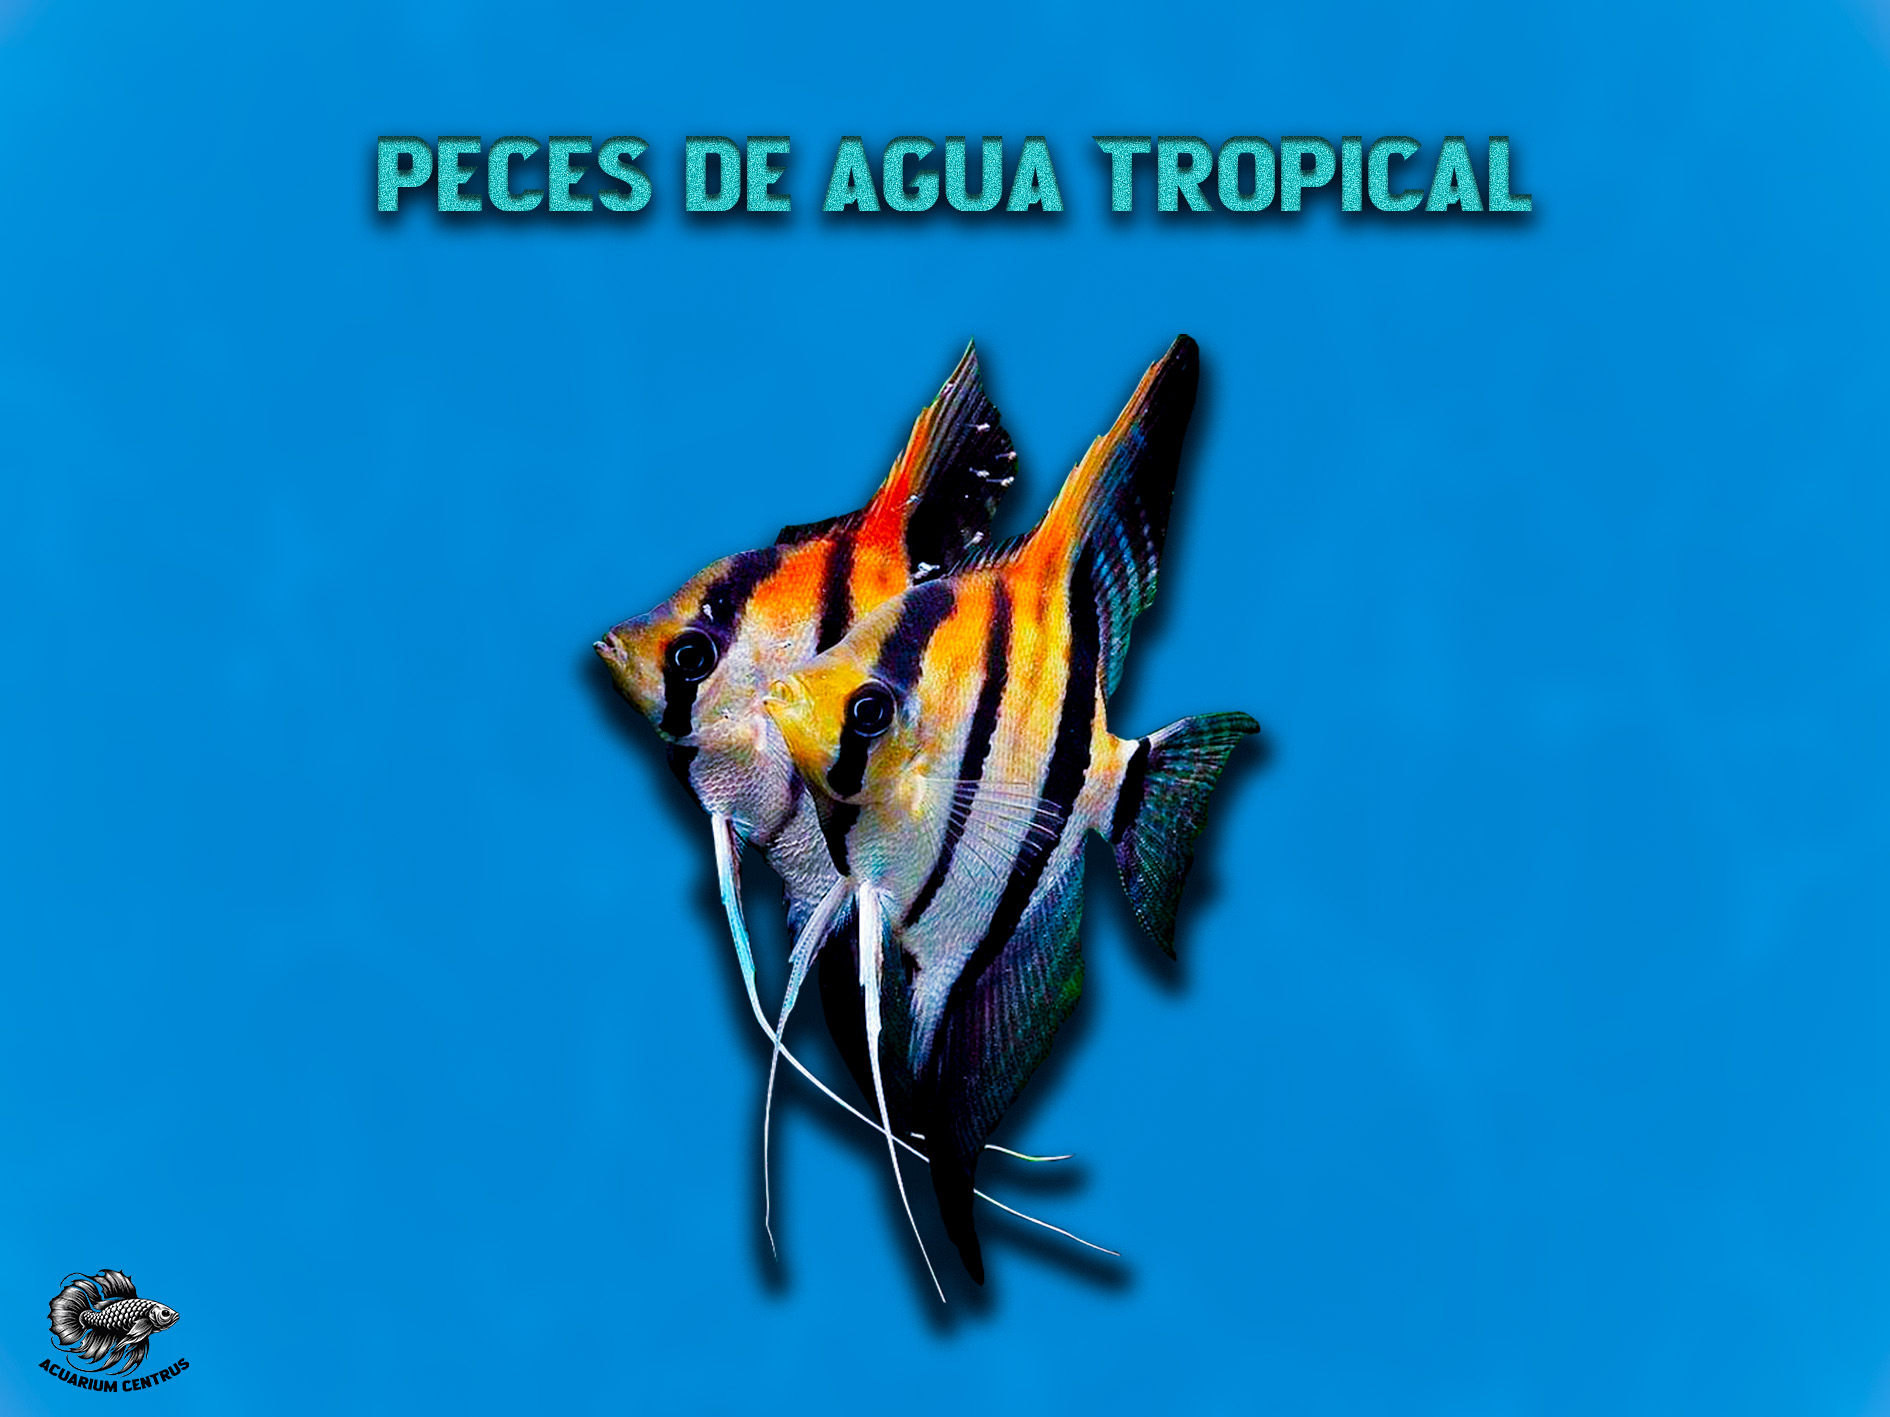
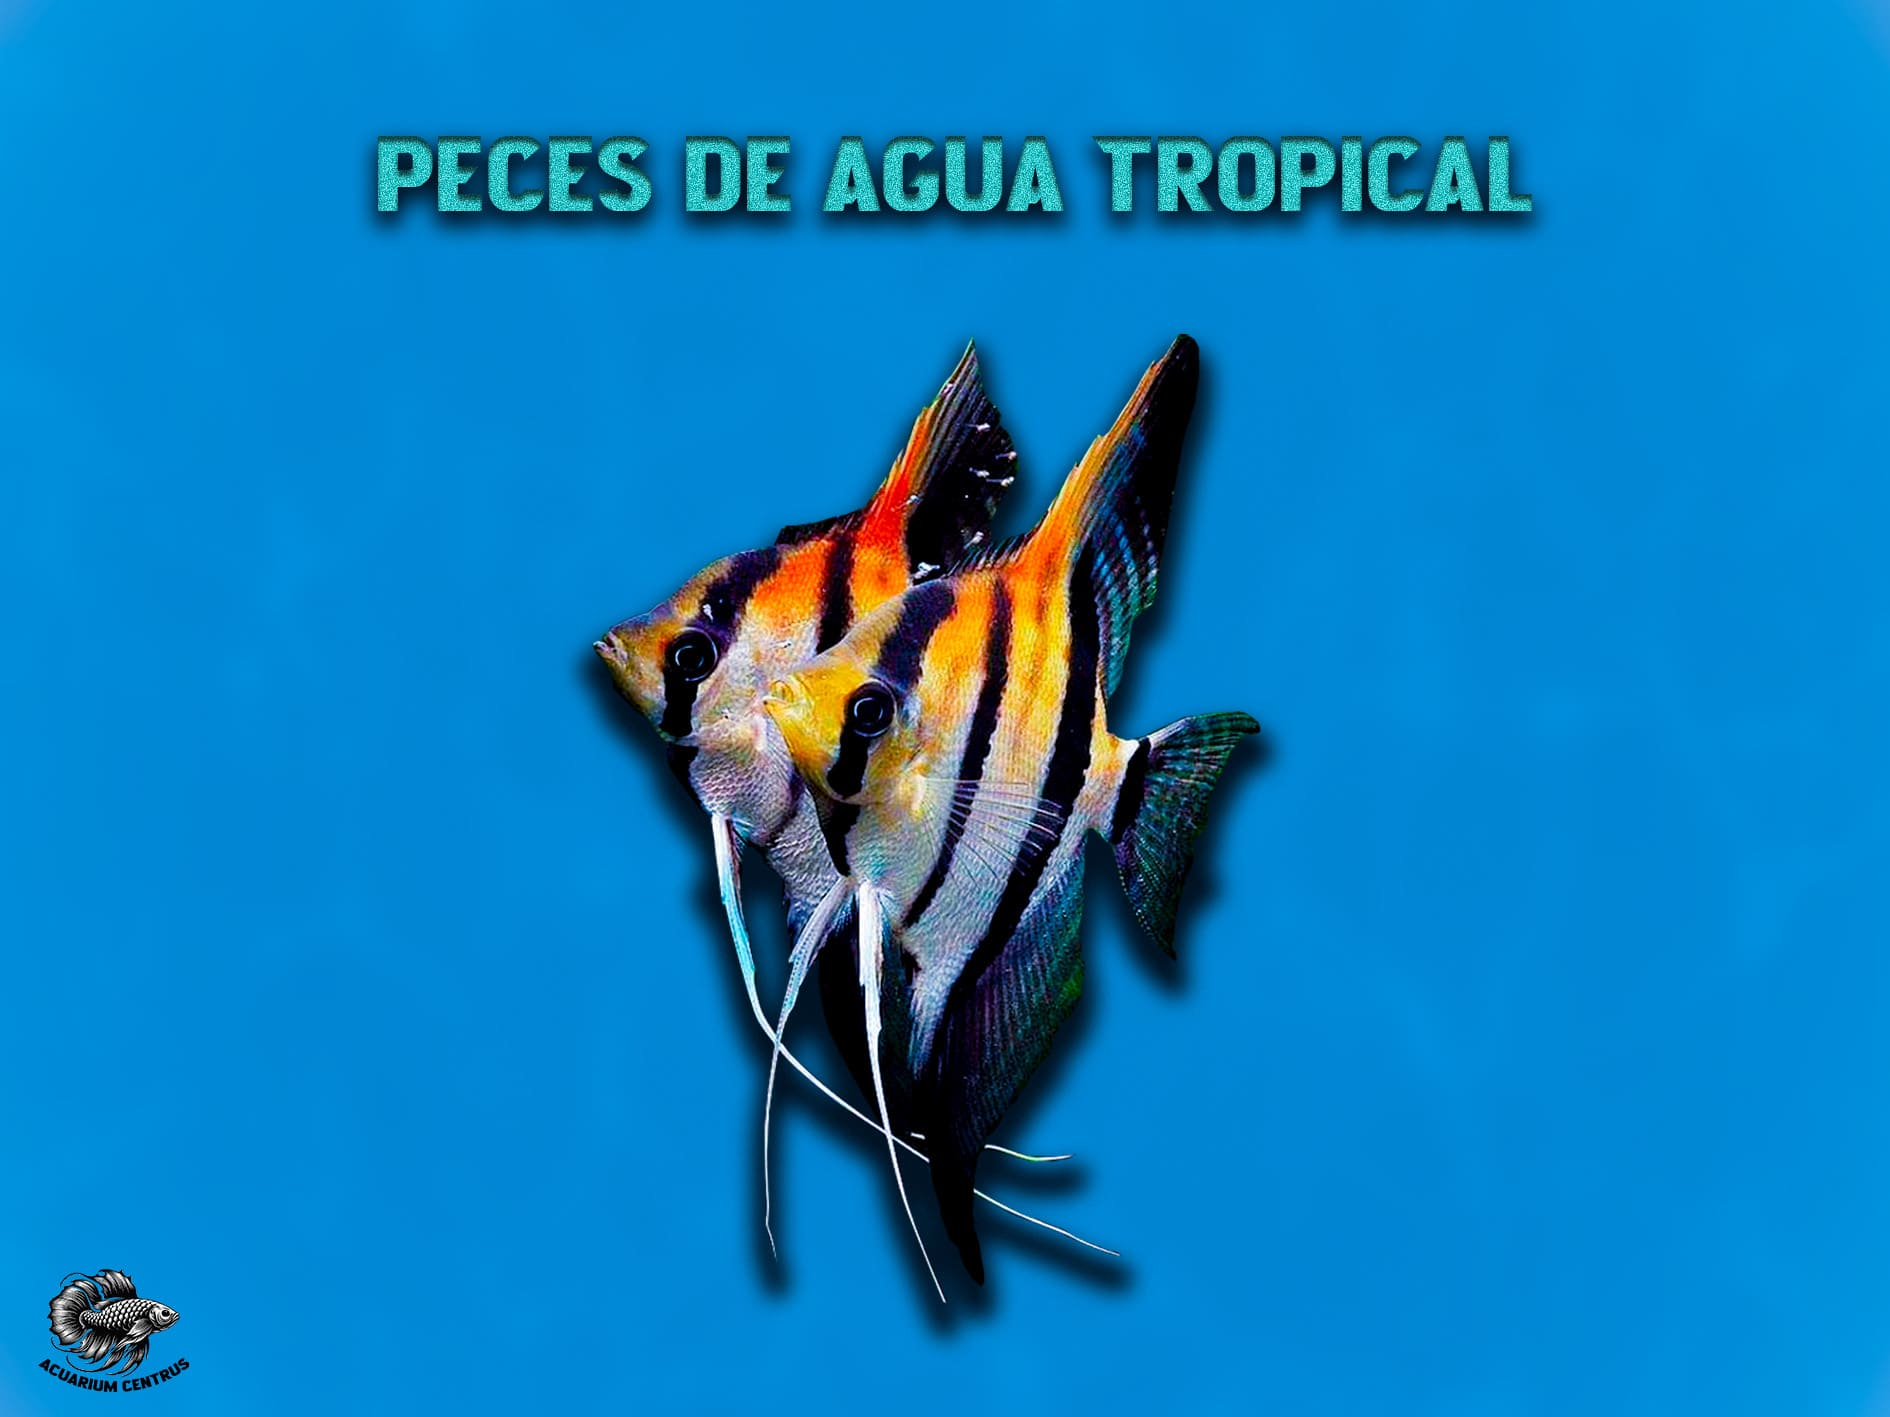
prueba-compresion-3

diff --git a/pages/peces-de-agua-tropical.html b/pages/peces-de-agua-tropical.html
@@ -62,7 +62,7 @@
             </h2>
 
             <figure>
-                <img src="../imagenes/wal-de-peces-agua-tropi.jpg" alt="imagen-principal-de-section2">
+                <img src="../imagenes/wal-de-peces-agua-tropi-otro-formato.webp" alt="imagen-principal-de-section2">
             </figure>
 
             <p class="info-abajo">
